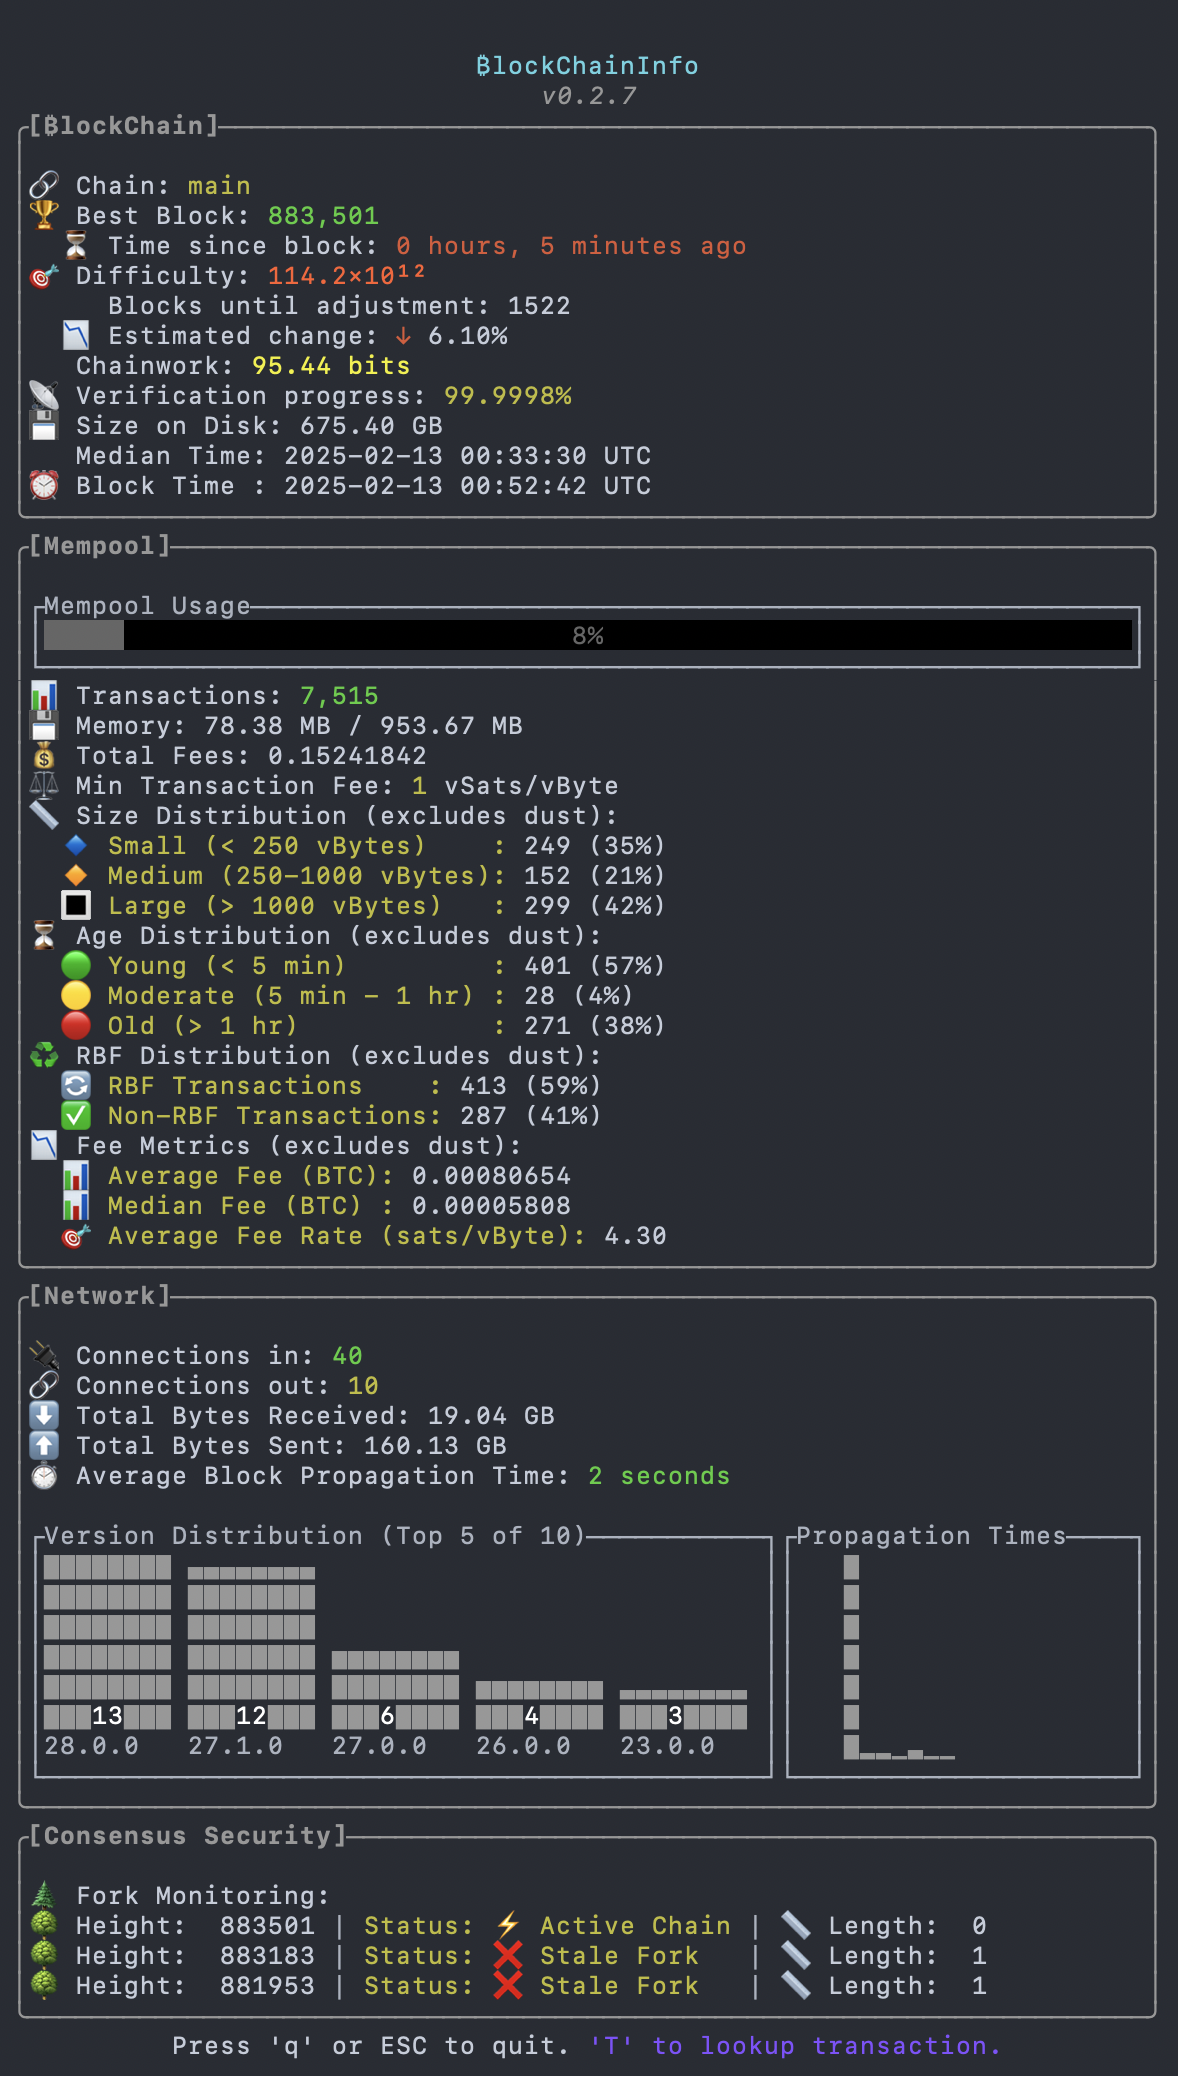
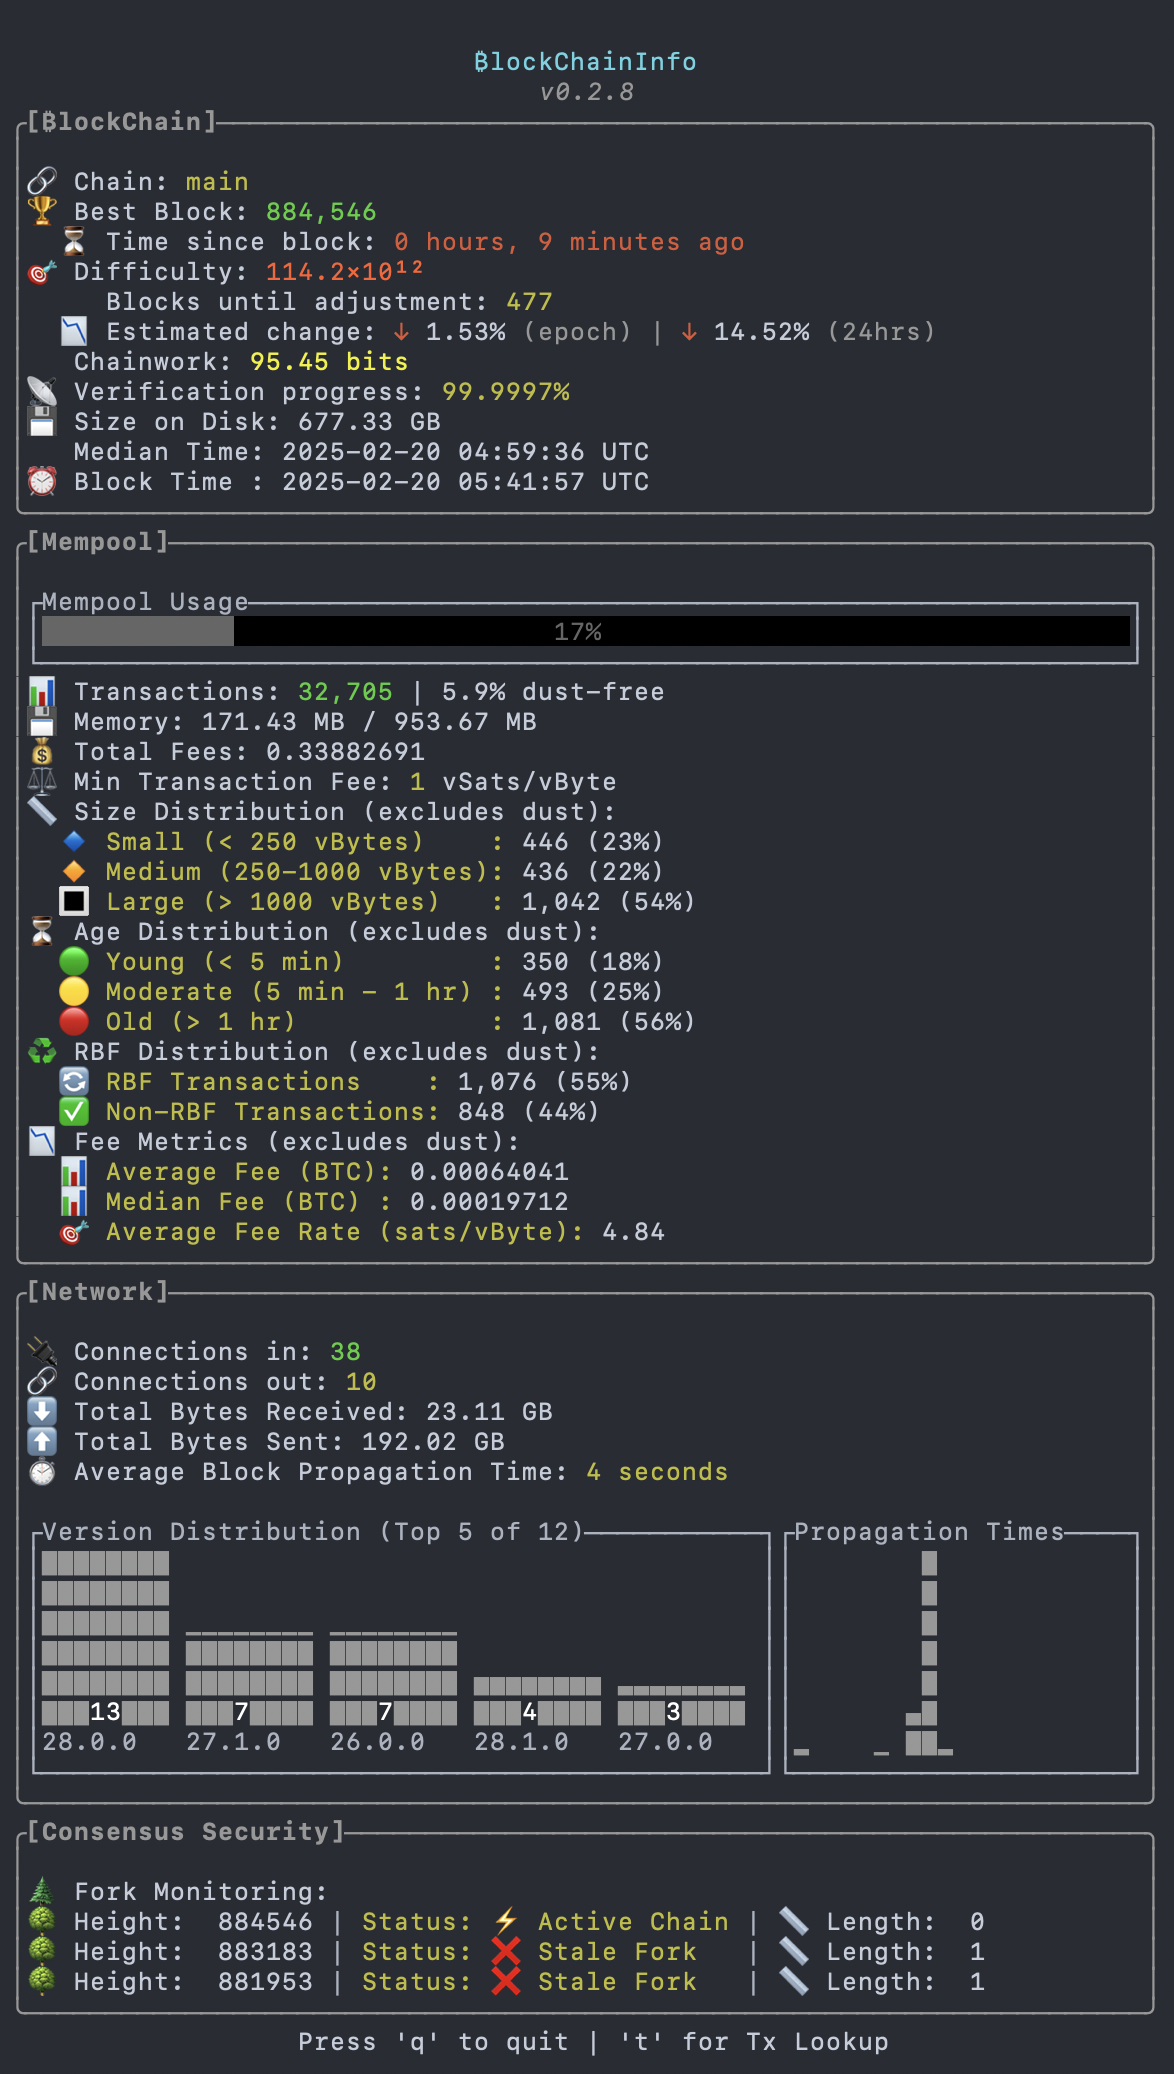
🔄 Version bump to 0.2.8 – Enhanced Mempool Transparency & Real-Time Difficulty Tracking Added real-time dust-free transaction percentage tracking 📊 Increased dust-free-cache to 50,000 to match dust_cache 💥 Styled "dust-free" percentage in gray for better contrast 🎨 Ensured full dust-free Tx tracking

diff --git a/src/runapp.rs b/src/runapp.rs
@@ -28,7 +28,7 @@ use blockchaininfo::utils::log_error;
 use crate::models::chaintips_info::ChainTipsResponse;
 use tokio::sync::Mutex;
 use regex::Regex;
-use crate::utils::{BLOCKCHAIN_INFO_CACHE, BLOCK_INFO_CACHE, MEMPOOL_INFO_CACHE, CHAIN_TIP_CACHE,
+use crate::utils::{BLOCKCHAIN_INFO_CACHE, BLOCK_INFO_CACHE, MEMPOOL_INFO_CACHE, CHAIN_TIP_CACHE, BLOCK24_INFO_CACHE,
 PEER_INFO_CACHE, NETWORK_INFO_CACHE, NET_TOTALS_CACHE, MEMPOOL_DISTRIBUTION_CACHE, LOGGED_TXS};
 
 struct App {
@@ -99,15 +99,15 @@ pub async fn run_app<B: tui::backend::Backend>(
                     sleep(Duration::from_secs(2)).await;
                     continue;
                 }
-    
+
                 // Step 2: Read Blockchain Info from Cache (Now It Exists)
                 let block_height = {
                     let blockchain_info = BLOCKCHAIN_INFO_CACHE.read().await;
                     blockchain_info.blocks // Extract the latest block height
                 };
-    
-                // Step 3: Fetch Block Data Using the Latest Block Height
-                if let Ok(new_data) = fetch_block_data_by_height(&config_clone, block_height).await {
+
+                // Step 3: Fetch Block Data Using the Latest Block Height (Epoch Start Block)
+                if let Ok(new_data) = fetch_block_data_by_height(&config_clone, block_height, 1).await {
                     let mut cache = BLOCK_INFO_CACHE.write().await;
                 
                     // Maintain last 10 blocks to prevent infinite growth
@@ -118,15 +118,33 @@ pub async fn run_app<B: tui::backend::Backend>(
                     let new_data_clone = new_data.clone();  // Clone it before pushing
                     cache.push(new_data_clone);
                 
-                    // println!("✅ BlockInfo Updated: Height = {}", new_data_clone.height);  
+                    // println!("✅ BlockInfo Updated: Height = {}", new_data_clone.height);
                 } else {
                     // println!("❌ Failed to fetch block data. Retrying...");
                 }
-    
+
+                // **Step 4: Fetch Block Data for 24 Hours Ago**
+                if let Ok(block24_data) = fetch_block_data_by_height(&config_clone, block_height, 2).await {
+                    let mut cache_24 = BLOCK24_INFO_CACHE.write().await;
+                    
+                    // Maintain last 10 blocks to prevent infinite growth
+                    if cache_24.len() >= 10 {
+                        cache_24.remove(0); // Remove the oldest block
+                    }
+                    
+                    let block24_clone = block24_data.clone();  // Clone before pushing
+                    cache_24.push(block24_clone);
+                    
+                    // println!("✅ Block24Info Updated: Height = {}", block24_clone.height);
+                } else {
+                    // println!("❌ Failed to fetch 24-hour block data. Retrying...");
+                }
+
                 sleep(Duration::from_secs(2)).await;
             }
         }
-    });       
+    });
+     
     
     // Mempool info
     tokio::spawn({
@@ -239,6 +257,7 @@ pub async fn run_app<B: tui::backend::Backend>(
         let network_info = NETWORK_INFO_CACHE.read().await;
         let peer_info = PEER_INFO_CACHE.read().await;
         let block_info = BLOCK_INFO_CACHE.read().await;
+        let block24_info = BLOCK24_INFO_CACHE.read().await;
         let net_totals = NET_TOTALS_CACHE.read().await;
         let distribution = MEMPOOL_DISTRIBUTION_CACHE.read().await;
         let chaintips_info = CHAIN_TIP_CACHE.read().await;
@@ -365,12 +384,14 @@ pub async fn run_app<B: tui::backend::Backend>(
             
             // println!("DEBUG: block_info length = {}", block_info.len());
 
-            if !block_info.is_empty() {
+            if !block_info.is_empty() && !block24_info.is_empty() {
                 let latest_block = &block_info[block_info.len() - 1];  // Safe indexing
-                display_blockchain_info(&blockchain_info, latest_block, frame, chunks[1]);
+                let block24 = &block24_info[block24_info.len() - 1];  // Safe indexing
+            
+                display_blockchain_info(&blockchain_info, latest_block, block24, frame, chunks[1]);
             } else {
                 // println!("⚠ No block info available!");
-            }            
+            }                       
 
             // Mempool Info Block
             let block_3 = Block::default()

diff --git a/src/display/display_blockchain_info.rs b/src/display/display_blockchain_info.rs
@@ -10,13 +10,15 @@ use tui::{
     Frame,
 };
 use num_format::{Locale, ToFormattedString};
-use crate::{models::{block_info::BlockInfo, blockchain_info::BlockchainInfo}, utils::{estimate_difficulty_change, format_size}};
+use crate::{models::{block_info::BlockInfo, blockchain_info::BlockchainInfo}, 
+    utils::{estimate_difficulty_change, estimate_24h_difficulty_change, format_size}};
 use crate::models::errors::MyError;  
 
 // Render the blockchain info into a `tui` terminal UI.
 pub fn display_blockchain_info<B: Backend>(
     blockchain_info: &BlockchainInfo,
     block_info: &BlockInfo,
+    block24_info: &BlockInfo,
     frame: &mut Frame<B>,
     area: Rect
 ) -> Result<(), MyError> {
@@ -31,11 +33,24 @@ pub fn display_blockchain_info<B: Backend>(
     let estimate_difficulty_chng = estimate_difficulty_change(
         blockchain_info.blocks,
         blockchain_info.time,
-        block_info.time,  // 🔥 Use block_info directly, no `.last()`
+        block_info.time,  
+    );
+    
+    // New difficulty change estimate (24-hour window)
+    let estimate_24h_difficulty_chng = estimate_24h_difficulty_change(
+        blockchain_info.time,  // Latest block timestamp
+        block24_info.time,     // Timestamp from 24-hour block
     );
     
     // Difficulty arrow.
     let difficulty_arrow = if estimate_difficulty_chng > 0.0 {
+        "↑".to_string()
+    } else {
+        "↓".to_string()
+    };
+
+    // Difficulty arrow for 24-hour estimate
+    let difficulty_arrow_24h = if estimate_24h_difficulty_chng > 0.0 {
         "↑".to_string()
     } else {
         "↓".to_string()
@@ -76,6 +91,8 @@ pub fn display_blockchain_info<B: Backend>(
     
         Spans::from(vec![
             Span::styled("  📉 Estimated change: ", Style::default().fg(Color::Gray)),
+        
+            // Epoch-based difficulty change
             Span::styled(
                 difficulty_arrow,
                 Style::default().fg(if estimate_difficulty_chng > 0.0 {
@@ -85,10 +102,29 @@ pub fn display_blockchain_info<B: Backend>(
                 }),
             ),
             Span::styled(
-                format!(" {:.2}%", estimate_difficulty_chng.abs()),
+                format!(" {:.2}% ", estimate_difficulty_chng.abs()),
                 Style::default().fg(Color::Gray),
             ),
-        ]),
+            Span::styled("(epoch)", Style::default().fg(Color::DarkGray)),
+        
+            // Separator
+            Span::styled(" | ", Style::default().fg(Color::DarkGray)),
+        
+            // 24-hour difficulty change
+            Span::styled(
+                difficulty_arrow_24h,
+                Style::default().fg(if estimate_24h_difficulty_chng > 0.0 {
+                    Color::Green
+                } else {
+                    Color::Red
+                }),
+            ),
+            Span::styled(
+                format!(" {:.2}% ", estimate_24h_difficulty_chng.abs()),
+                Style::default().fg(Color::Gray),
+            ),
+            Span::styled("(24hrs)", Style::default().fg(Color::DarkGray)),
+        ]),        
 
         Spans::from(vec![
             Span::styled("   Chainwork: ", Style::default().fg(Color::Gray)),

diff --git a/src/rpc/block.rs b/src/rpc/block.rs
@@ -13,11 +13,24 @@ use crate::utils::DIFFICULTY_ADJUSTMENT_INTERVAL;
 pub async fn fetch_block_data_by_height(
     config: &RpcConfig,
     blocks: u64,
+    mode: u16, // 1 = Epoch Start Block, 2 = 24 Hours Ago Block
 ) -> Result<BlockInfo, MyError> {
-    // Lock and read the blockchain info from the cache
-    let block_height = (
-        (blocks - 1) / DIFFICULTY_ADJUSTMENT_INTERVAL
-    ) * DIFFICULTY_ADJUSTMENT_INTERVAL;
+    // Determine which block height to fetch
+    let block_height = match mode {
+        1 => {
+            // Get first block of the current difficulty epoch
+            ((blocks - 1) / DIFFICULTY_ADJUSTMENT_INTERVAL) * DIFFICULTY_ADJUSTMENT_INTERVAL
+        }
+        2 => {
+            // Get the block from ~24 hours ago (144 blocks back)
+            blocks.saturating_sub(143)
+        }
+        _ => {
+            return Err(MyError::CustomError(
+                "Invalid mode. Use 1 for Epoch Start Block or 2 for 24H Block.".to_string(),
+            ));
+        }
+    };
 
     let client = Client::new();
 
@@ -28,7 +41,7 @@ pub async fn fetch_block_data_by_height(
         "method": "getblockhash",
         "params": [block_height]
     });
-    
+
     let block_hash_response: BlockHash = client
         .post(&config.address)
         .basic_auth(&config.username, Some(&config.password))
@@ -38,18 +51,18 @@ pub async fn fetch_block_data_by_height(
         .await?
         .json::<BlockHash>()
         .await?;
-    
+
     // Extract the block hash.
     let blockhash = block_hash_response.result;
-    
+
     // Step 2: Get the block data using the block hash.
     let getblock_request = json!({
         "jsonrpc": "1.0",
         "id": "1",
         "method": "getblock",
         "params": [blockhash]
-    });   
-    
+    });
+
     let block_response: BlockInfoJsonWrap = client
         .post(&config.address)
         .basic_auth(&config.username, Some(&config.password))
@@ -59,7 +72,6 @@ pub async fn fetch_block_data_by_height(
         .await?
         .json::<BlockInfoJsonWrap>()
         .await?;
-    
-     Ok(block_response.result)
-    
+
+    Ok(block_response.result)
 }

diff --git a/src/display/display_mempool_info.rs b/src/display/display_mempool_info.rs
@@ -57,6 +57,9 @@ pub fn display_mempool_info<B: Backend>(
     let total_size = distribution.small + distribution.medium + distribution.large;
     let total_age = distribution.young + distribution.moderate + distribution.old;
     let total_rbf = distribution.rbf_count + distribution.non_rbf_count;
+    let dust_free_percentage = (total_size as f64 / mempool_info.size as f64) * 100.0;
+    let formatted_dust_free = format!("{:.1}%", dust_free_percentage);
+
 
     // Create the layout for this specific chunk (using passed 'area').
     let chunks = Layout::default()
@@ -89,8 +92,15 @@ pub fn display_mempool_info<B: Backend>(
         Spans::from(vec![
             Span::styled("📊 Transactions: ", Style::default().fg(Color::Gray)),
             Span::styled(
-                mempool_info.size.to_formatted_string(&Locale::en),
+                format!(
+                    "{} ",
+                    mempool_info.size.to_formatted_string(&Locale::en),
+                ),
                 Style::default().fg(Color::Green),
+            ),
+            Span::styled(
+                format!("| {} dust-free", formatted_dust_free),
+                Style::default().fg(Color::Gray), // Dust-free percentage in Gray
             ),
         ]),
         Spans::from(vec![

diff --git a/src/utils.rs b/src/utils.rs
@@ -53,6 +53,9 @@ pub static NET_TOTALS_CACHE: Lazy<Arc<RwLock<NetTotals>>> =
 pub static BLOCK_INFO_CACHE: Lazy<Arc<RwLock<Vec<BlockInfo>>>> = 
     Lazy::new(|| Arc::new(RwLock::new(Vec::new())));
 
+pub static BLOCK24_INFO_CACHE: Lazy<Arc<RwLock<Vec<BlockInfo>>>> = 
+    Lazy::new(|| Arc::new(RwLock::new(Vec::new())));
+
 pub static CHAIN_TIP_CACHE: Lazy<Arc<RwLock<ChainTipsResponse>>> =
     Lazy::new(|| Arc::new(RwLock::new(ChainTipsResponse::default())));
 
@@ -129,6 +132,19 @@ pub fn estimate_difficulty_change(
     let adjustment_factor = expected_duration as f64 / actual_duration as f64;
     (adjustment_factor - 1.0) * 100.0 // Return percentage change
 } 
+
+pub fn estimate_24h_difficulty_change(
+    current_block_time: u64,
+    block24_time: u64,
+) -> f64 {
+    let expected_duration = 144 * BLOCK_TIME_SECONDS; // Fixed 144-block window
+    let actual_duration = current_block_time - block24_time;
+
+    let adjustment_factor = expected_duration as f64 / actual_duration as f64;
+    (adjustment_factor - 1.0) * 100.0 // Return percentage change
+}
+
+
 // Returns a `tui` widget for the blockchain header.
 pub fn render_header() -> Paragraph<'static> {
     // Combine the footer message and app version.

diff --git a/src/display.rs b/src/display.rs
@@ -39,10 +39,11 @@ use std::collections::VecDeque;
 pub fn display_blockchain_info<B: Backend>(
     blockchain_info: &BlockchainInfo,
     block_info: &BlockInfo,
+    block24_info: &BlockInfo,
     frame: &mut Frame<B>,
     area: Rect
 ) {
-   let _ = display_blockchain_info::display_blockchain_info(blockchain_info, block_info, frame, area);
+   let _ = display_blockchain_info::display_blockchain_info(blockchain_info, block_info, block24_info, frame, area);
 }
 
 // Displays the mempool information.

diff --git a/src/rpc.rs b/src/rpc.rs
@@ -36,8 +36,9 @@ pub async fn fetch_network_info(config: &RpcConfig) -> Result<NetworkInfo, MyErr
 pub async fn fetch_block_data_by_height(
     config: &RpcConfig,
     blocks: u64,
+    mode: u16, // 1 = Epoch Start Block, 2 = 24 Hours Ago Block
 ) -> Result<BlockInfo, MyError> {
-    block::fetch_block_data_by_height(config, blocks).await
+    block::fetch_block_data_by_height(config, blocks, mode).await
 }
 
 pub async fn fetch_chain_tips(config: &RpcConfig) -> Result<Vec<ChainTip>, MyError> {

diff --git a/src/rpc/mempool_distro.rs b/src/rpc/mempool_distro.rs
@@ -19,7 +19,7 @@ use crate::rpc::mempool::MEMPOOL_CACHE;
 use crate::utils::{BLOCKCHAIN_INFO_CACHE, MEMPOOL_DISTRIBUTION_CACHE};
 
 const DUST_THRESHOLD: f64 = 0.00000546; // 546 sats in BTC
-const MAX_CACHE_SIZE: usize = 10_000; // Rolling cache size
+const MAX_CACHE_SIZE: usize = 50_000; // Rolling cache size
 const MAX_DUST_CACHE_SIZE: usize = 50_000; // Rolling cache size
 
 static DUST_FREE_TX_CACHE: once_cell::sync::Lazy<Arc<Mutex<HashMap<String, MempoolEntry>>>> = 
